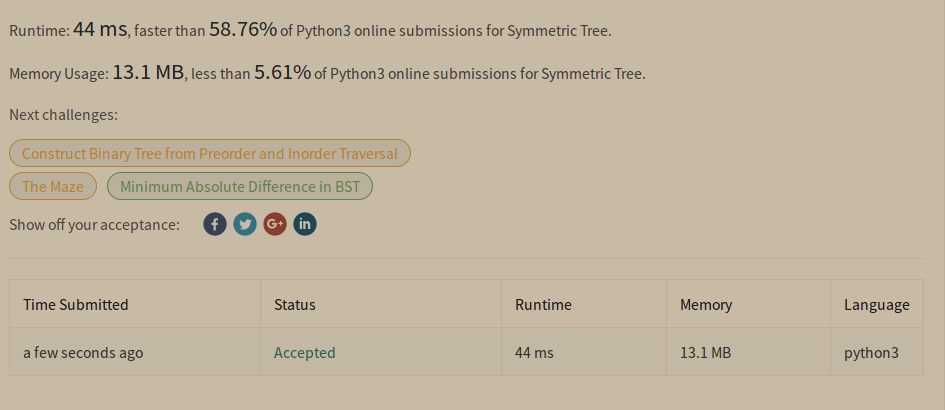
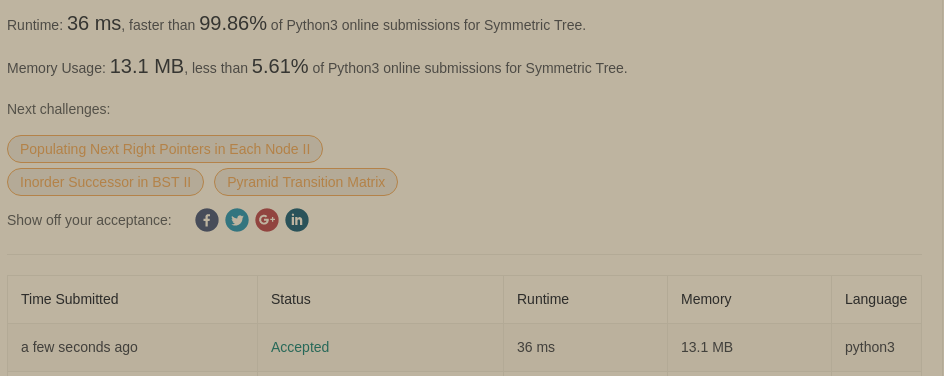
Symmetric Tree(Problems 101 - AC) more concise :satisfied:

diff --git a/leetcode/101/symmetric_tree.py b/leetcode/101/symmetric_tree.py
@@ -30,28 +30,22 @@ class TreeNode:
         self.right = None
 
 
-class Solution:
+class SolutionWithRecursion:
     def isSymmetric(self, root: TreeNode) -> bool:
-        left = []
-        self._from_left(root, left)  # start from left subtree at first
-        right = []
-        self._from_right(root, right)  # start from right subtree at first
-        return left == right
+        if not root:
+            # not a tree
+            return True
+        return self._helper(root.left, root.right)
 
-    def _from_left(self, node, result):
-        if node:
-            result.append(node.val)
-        if not node:
-            result.append(node)
-            return
-        self._from_left(node.left, result)
-        self._from_left(node.right, result)
-
-    def _from_right(self, node, result):
-        if node:
-            result.append(node.val)
-        if not node:
-            result.append(node)
-            return
-        self._from_right(node.right, result)
-        self._from_right(node.left, result)
+    def _helper(self, left, right):
+        if not left and not right:
+            # reach the leaf node
+            return True
+        if not left and right:
+            # the height of left subtree is less than the right one
+            return False
+        elif left and not right:
+            # the height of left subtree is greater than the right one
+            return False
+        return left.val == right.val and self._helper(left.left, right.right) \
+            and self._helper(left.right, right.left)

diff --git a/leetcode/101/test.py b/leetcode/101/test.py
@@ -1,6 +1,6 @@
 import unittest
 
-from symmetric_tree import Solution, TreeNode
+from symmetric_tree import SolutionWithRecursion, TreeNode
 
 
 class TestSolution(unittest.TestCase):
@@ -33,7 +33,7 @@ class TestSolution(unittest.TestCase):
 
     def test_is_symmetric(self):
 
-        s = Solution()
+        s = SolutionWithRecursion()
 
         array = [1, 2, 2, 3, 4, 4, 3]
         root = self.create_binary_tree(array)

diff --git a/leetcode/readme.md b/leetcode/readme.md
@@ -107,7 +107,7 @@ Python3
 |103|111|Minimum Depth of Binary Tree|Py3|Easy|0.2434|
 |104|102|Binary Tree Level Order Traversal|Py3|Medium|0.7687|
 |105|199|Binary Tree Right Side View|Py3|Medium|0.9483|
-|106|101|Symmetric Tree|Py3|Easy|0.5876|
+|106|101|Symmetric Tree|Py3|Easy|0.9986|
 |107|144|Binary Tree Preorder Traversal|Py3|Medium|0.8372|
 |108|94|Binary Tree Inorder Traversal|Py3|Medium|0.8516|
 |109|145|Binary Tree Postorder Traversal|Py3|Hard|0.3837/0.8507|
